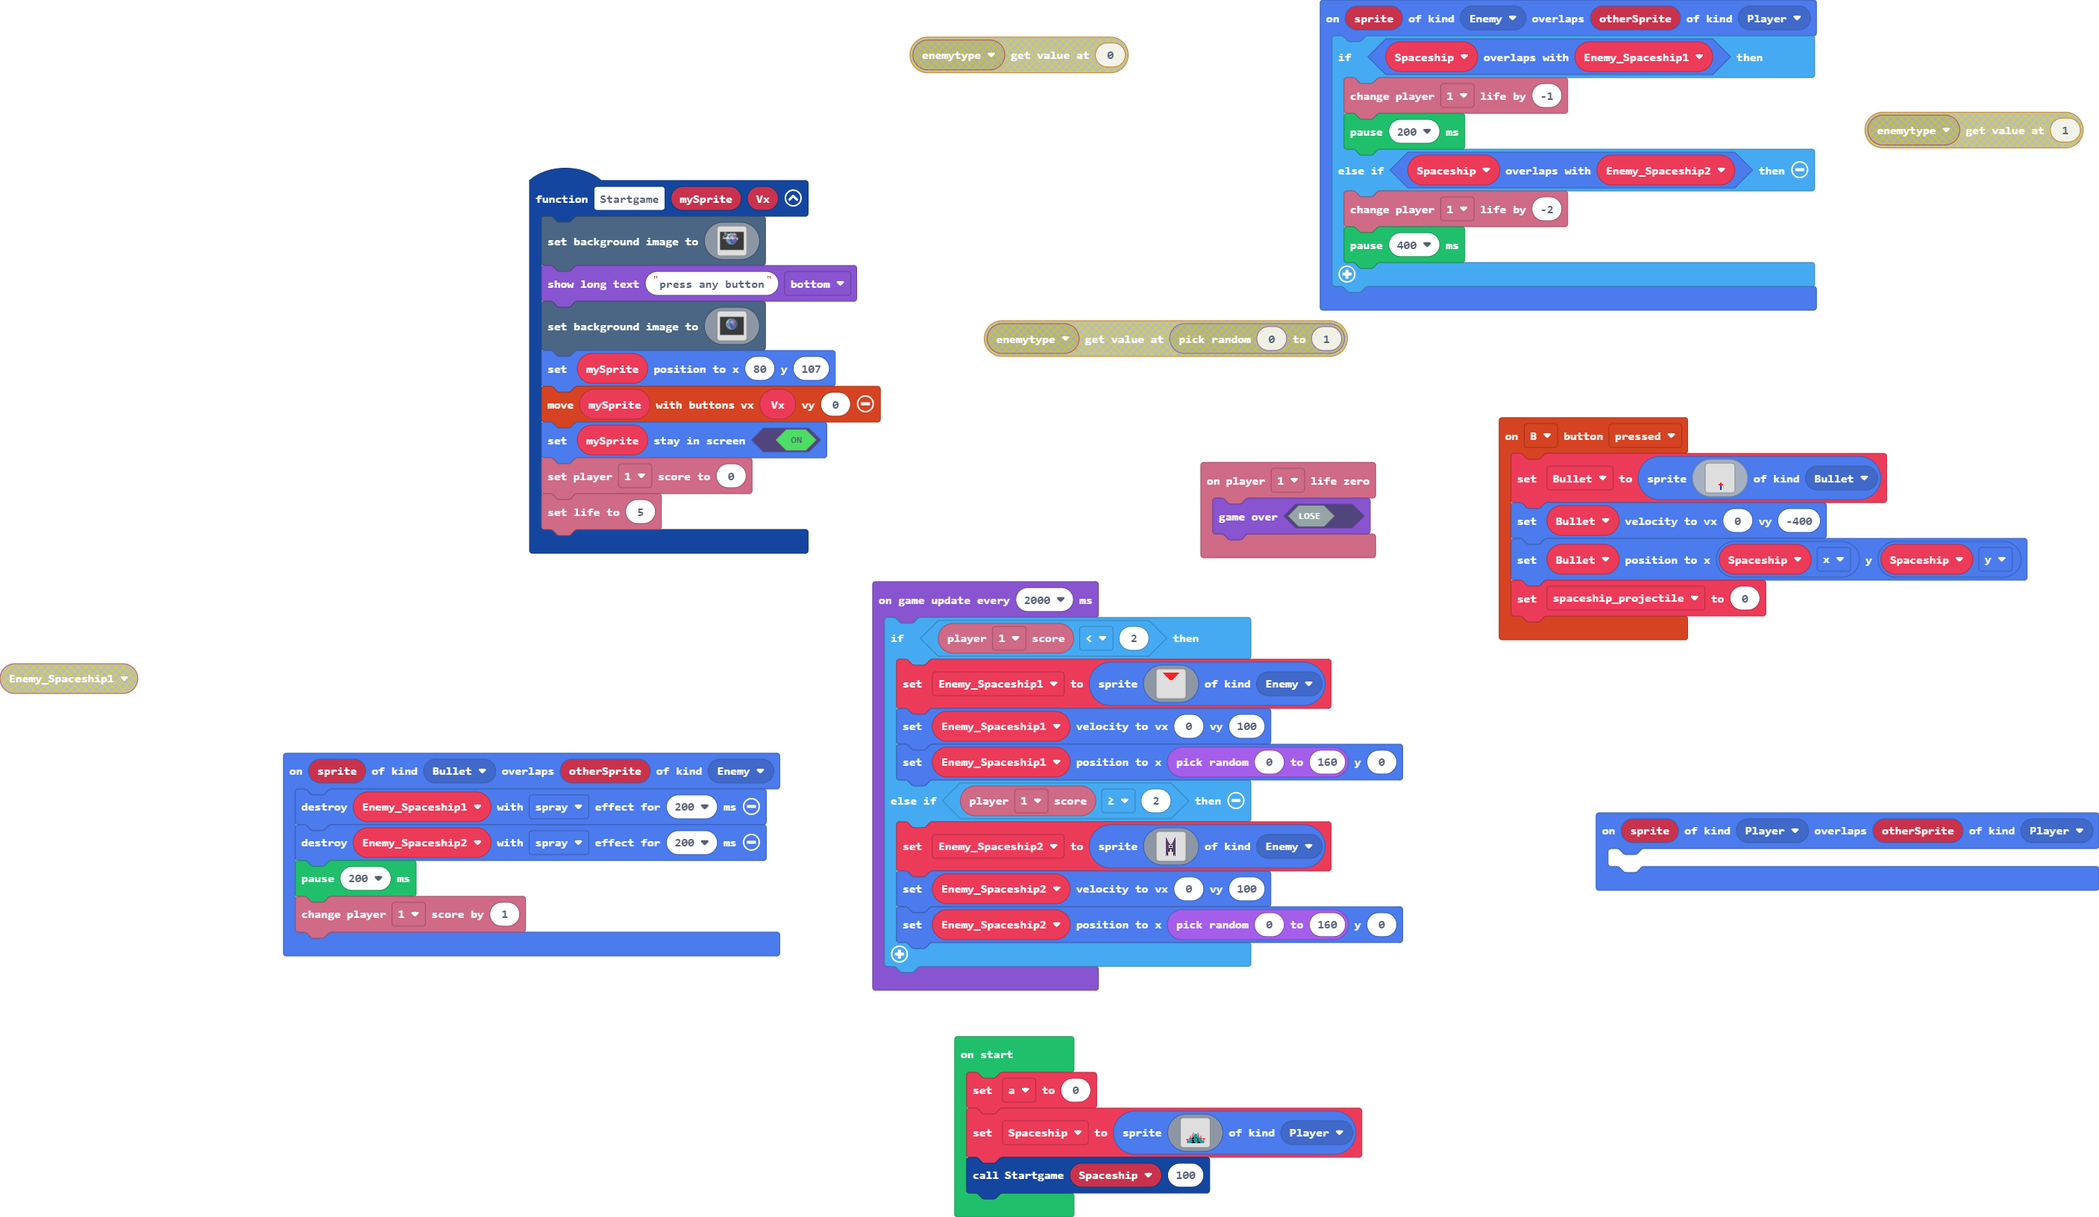
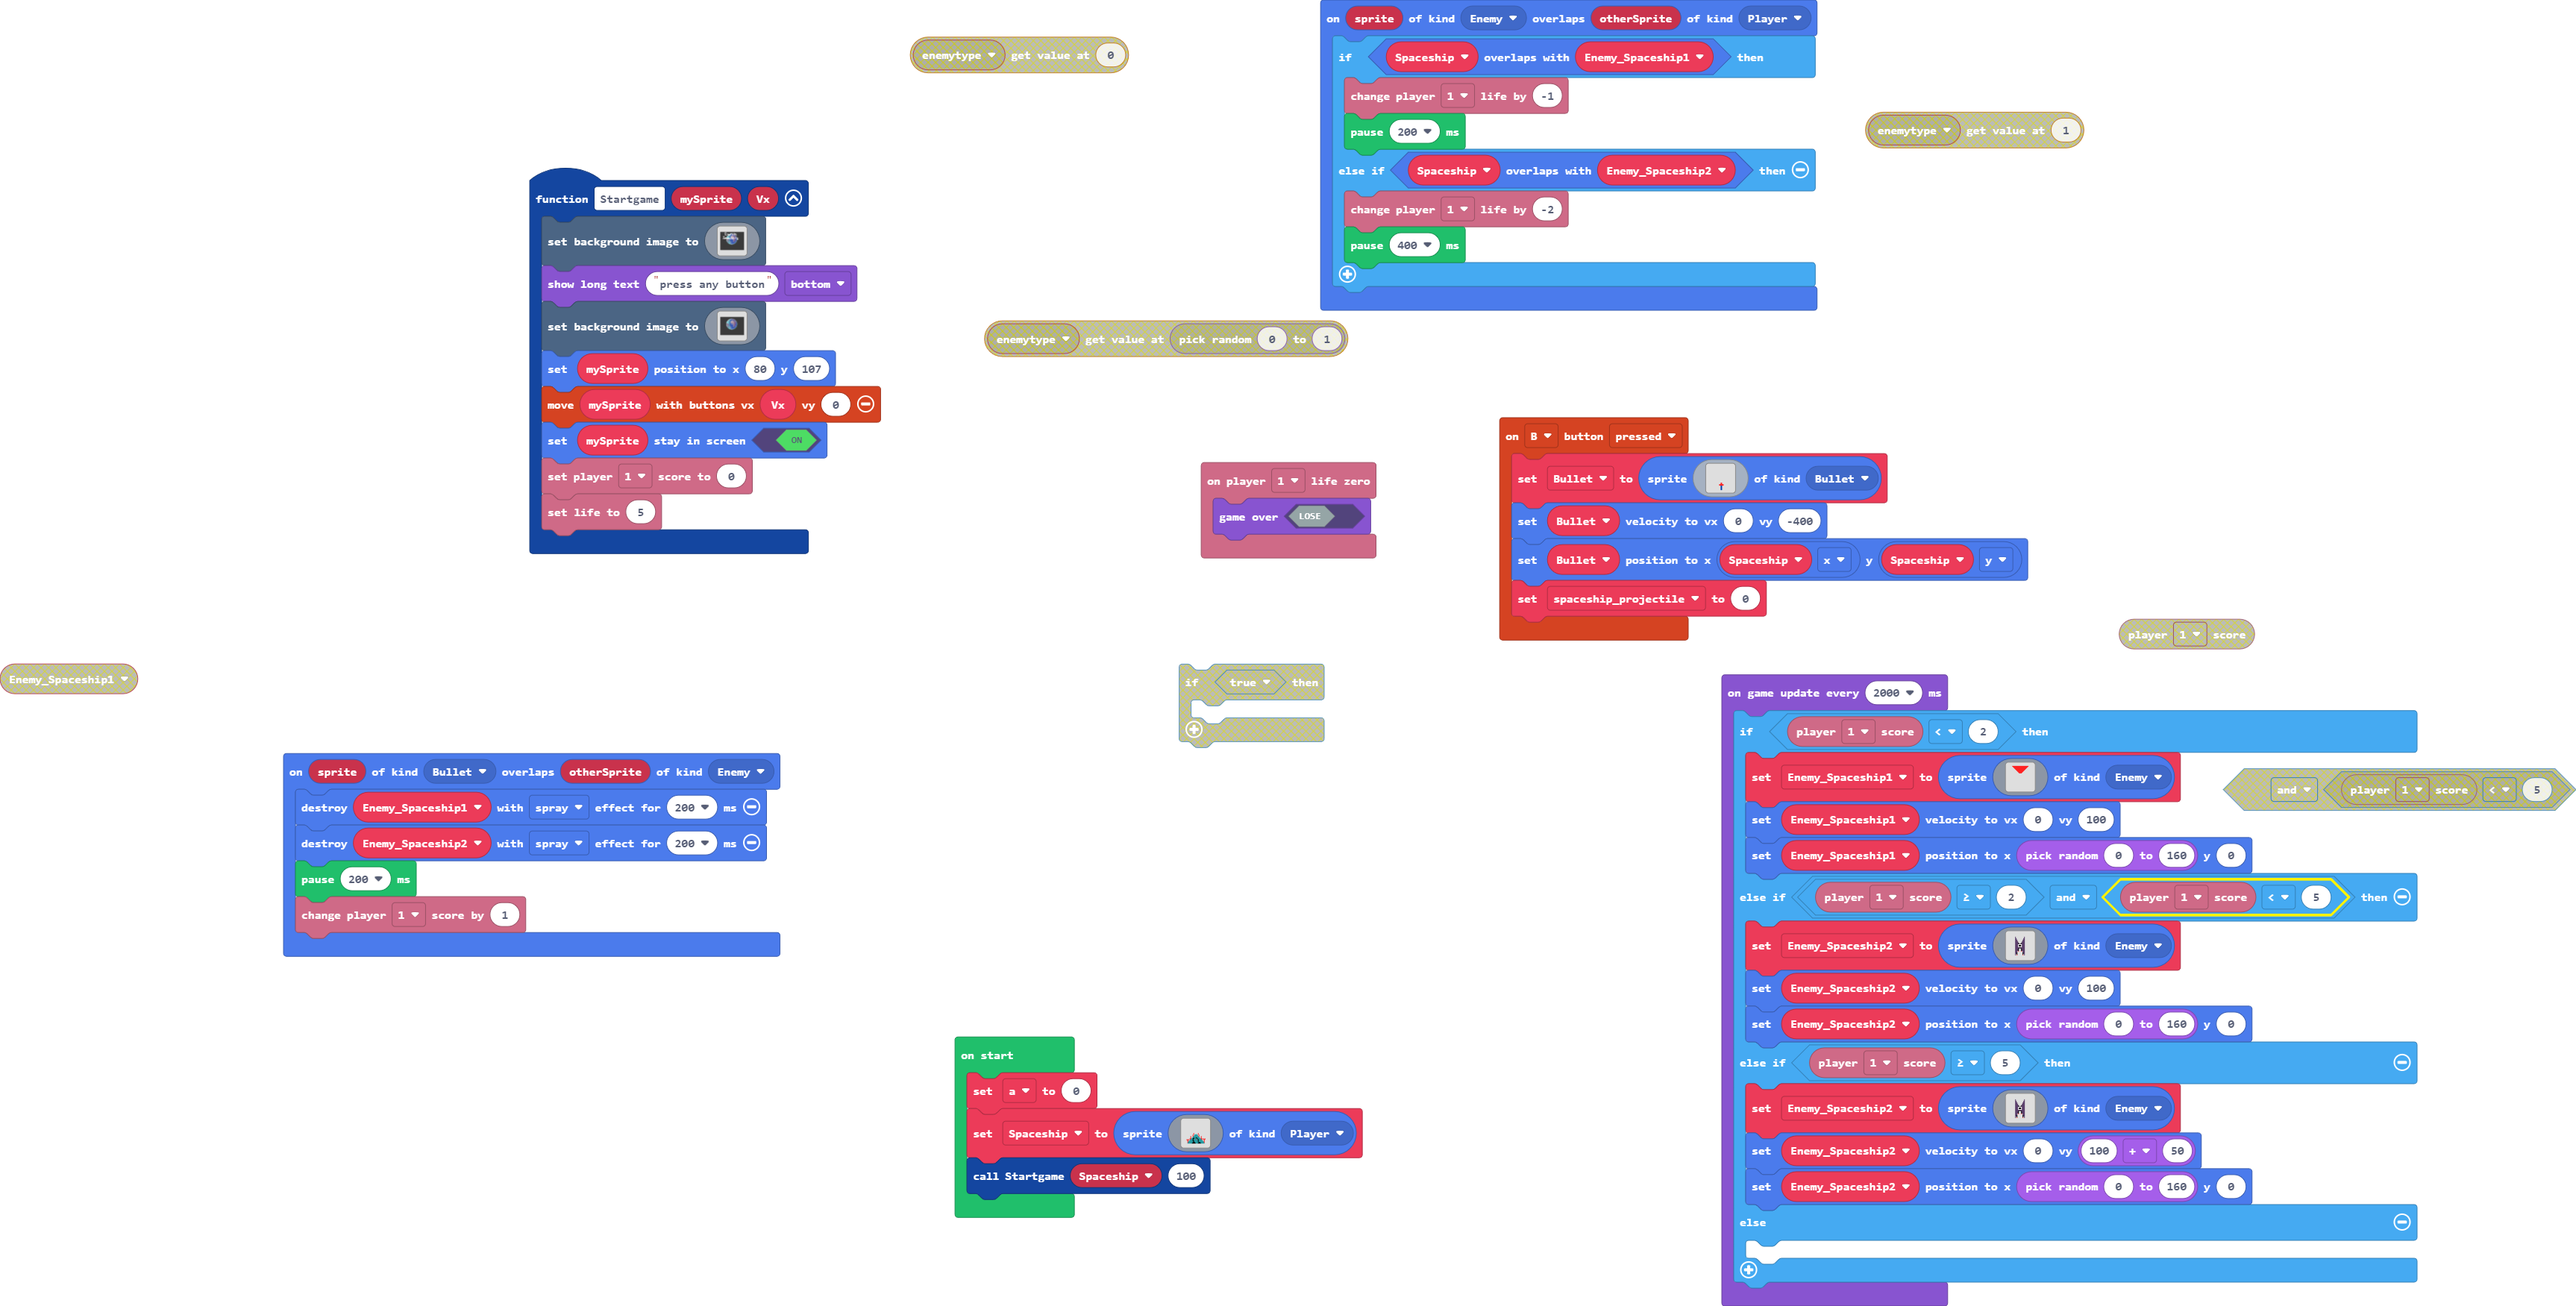
Update main.blocks, main.ts

diff --git a/main.ts b/main.ts
@@ -291,9 +291,6 @@ sprites.onOverlap(SpriteKind.Enemy, SpriteKind.Player, function (sprite, otherSp
         pause(400)
     }
 })
-sprites.onOverlap(SpriteKind.Player, SpriteKind.Player, function (sprite, otherSprite) {
-	
-})
 info.player1.onLifeZero(function () {
     game.gameOver(false)
 })
@@ -376,7 +373,7 @@ game.onUpdateInterval(2000, function () {
             `, SpriteKind.Enemy)
         Enemy_Spaceship1.setVelocity(0, 100)
         Enemy_Spaceship1.setPosition(randint(0, 160), 0)
-    } else if (info.player1.score() >= 2) {
+    } else if (info.player1.score() >= 2 && info.player1.score() < 5) {
         Enemy_Spaceship2 = sprites.create(img`
             ................................
             ................................
@@ -413,5 +410,44 @@ game.onUpdateInterval(2000, function () {
             `, SpriteKind.Enemy)
         Enemy_Spaceship2.setVelocity(0, 100)
         Enemy_Spaceship2.setPosition(randint(0, 160), 0)
+    } else if (info.player1.score() >= 5) {
+        Enemy_Spaceship2 = sprites.create(img`
+            ................................
+            ................................
+            ................................
+            ................................
+            .........c...........c..........
+            .........c...........c..........
+            .........cc.........cc..........
+            .........cc.........cc..........
+            .........ccc.......ccc..........
+            .........ccc.......ccc..........
+            .........cccc.....cccc..........
+            .........cccc.....cccc..........
+            .........ccccf...fcccc..........
+            .........cccccf.fccccc..........
+            .........cccc11111cccc..........
+            .........cccc1fff1cccc..........
+            .........cccc1fff1cccc..........
+            .........cccc11111cccc..........
+            .........ccccccfcccccc..........
+            .........cccccf.fccccc..........
+            .........ccccf...fcccc..........
+            .........ccccf...fcccc..........
+            .........ccccf...fcccc..........
+            .........ccc.2...2.ccc..........
+            .........ccc.......ccc..........
+            .........ccf.......fcc..........
+            .........ccf.......fcc..........
+            .........c.f.......f.c..........
+            .........c.2.......2.c..........
+            ................................
+            ................................
+            ................................
+            `, SpriteKind.Enemy)
+        Enemy_Spaceship2.setVelocity(0, 100 + 50)
+        Enemy_Spaceship2.setPosition(randint(0, 160), 0)
+    } else {
+    	
     }
 })
